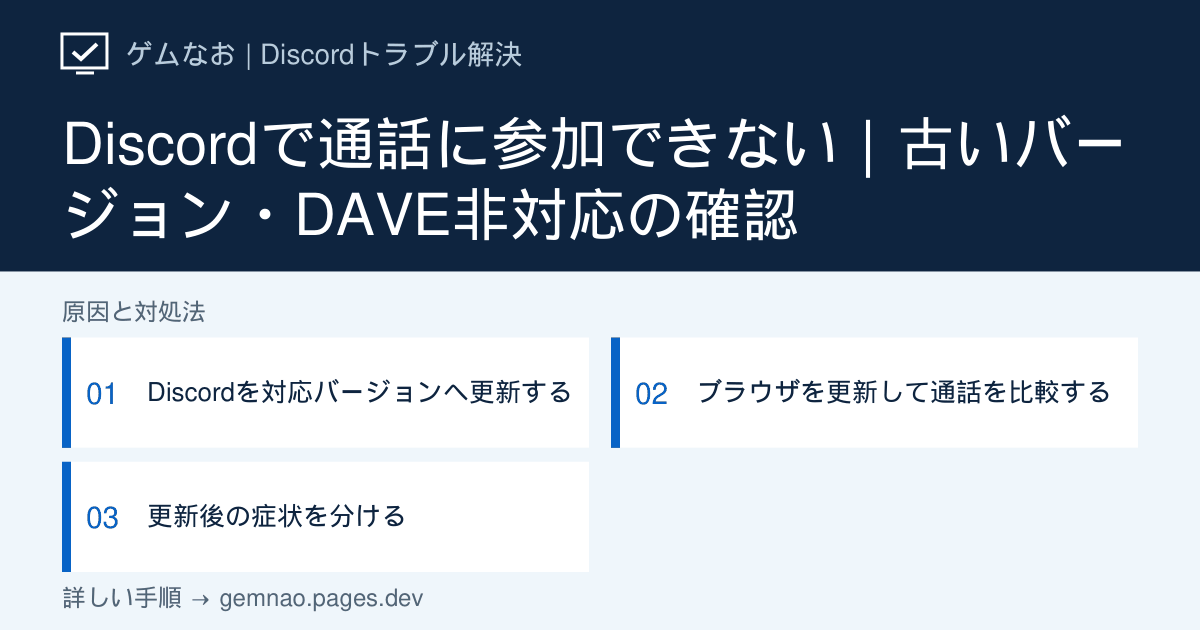
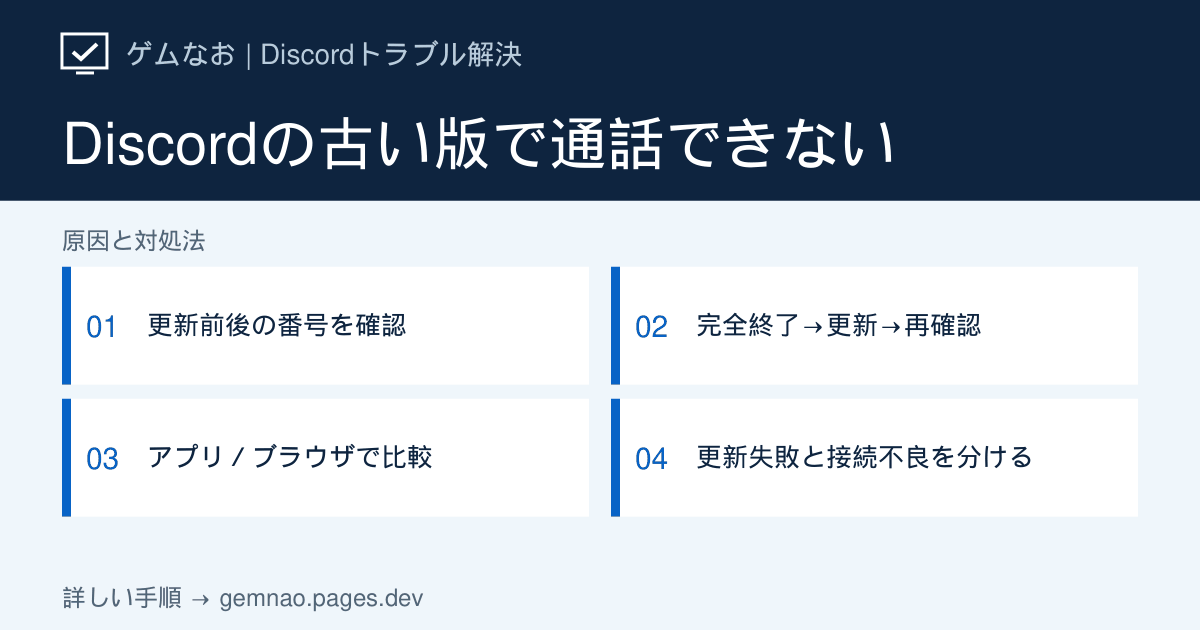
Rewrite outdated voice client guide with update verification and browser comparisons

diff --git a/lib/discord-compatibility-articles.ts b/lib/discord-compatibility-articles.ts
@@ -3,80 +3,98 @@ export const discordCompatibilityArticles: DiscordArticle[] = [
   {
     slug: 'voice-client-outdated',
     category: 'connection',
-    title: 'Discordで通話に参加できない｜古いバージョン・DAVE非対応の確認',
+    title: 'Discordの古いバージョンで通話できない｜更新できない時の対処',
     shortTitle: '古いバージョンで通話できない',
-    seoTitle: 'Discordで通話できない｜古いバージョン・DAVE対応を確認',
-    metaDescription:
-      'チャットは使えるのにDiscordの通話・Go Liveへ参加できない時、古いアプリやブラウザを確認。Windows版とFirefoxの対応条件、更新後も直らない場合の切り分けを説明します。',
-    symptom:
-      '文字チャットは使えるのに音声・ビデオ通話へ参加できない、古いアプリやブラウザを長く使っている人向けです。RTC接続中や無音の原因すべてがDAVEとは限りません。',
+    seoTitle: 'Discordの古いバージョンで通話できない｜更新確認・DAVE対応',
+    metaDescription: 'Discordの通話に必要な最低バージョンと更新前後の確認方法。更新できない・番号が変わらない時の手順、アプリとブラウザの結果別判断表、Update Failedなどの確認先を解説します。',
+    symptom: 'チャットは使えるのに通話へ参加できない、古いバージョンの警告が出る、更新しても同じ番号のままの場合の手順です。',
     target: 'Windows版Discord・PCブラウザ版／バージョン非対応が疑われる場合',
-    conclusion:
-      'Discord公式は2026年3月2日以降の通話に暗号化対応を必須と案内しています。まずアプリとブラウザを現行版へ更新し、同じ通話へ参加できるか確認してください。',
+    conclusion: 'Discordは2026年3月2日以降の通話に暗号化対応を必須としています。まず更新前のバージョンを控え、完全終了・更新後に同じ画面で再確認します。更新できなければ現行ブラウザで同じ通話を試し、アプリだけ失敗するのか、両方で接続できないのかで次の手順を選びます。',
     quickFixes: [
-      'Discordのユーザー設定の最下部でバージョンを確認する',
-      'アプリ・ブラウザを更新して再起動する',
-      '更新済みでも直らない場合はRTC接続や音声設定を切り分ける',
+      'ユーザー設定の最下部で、更新前のバージョン表示全体を記録する',
+      'Discordを完全終了して再起動し、更新後の版と通話結果を確認する',
+      '更新失敗ならブラウザ版を比較し、エラー表示に合う手順へ進む',
+    ],
+    showStatusCheck: false,
+    diagnosisTitle: 'アプリとブラウザの通話結果で選ぶ判断表',
+    diagnosisIntro: '同じPC・回線・アカウント・通話先で、片方から退出してからもう片方を試します。「チャットが開いた」ではなく「通話に参加できたか」で比較してください。',
+    diagnosis: [
+      { symptom: '古いバージョンの警告／Windows版が1.0.9164未満', check: '更新前の番号を記録して完全終了・更新', causeIndex: 1 },
+      { symptom: '再起動後も番号が変わらない', check: '最低条件、表示全体、起動したアプリを確認', causeIndex: 2 },
+      { symptom: 'Update Failed／更新ループ／Installation has failed', check: 'ブラウザで通話を確保し、表示別の記事へ', causeIndex: 2 },
+      { symptom: 'アプリは失敗、更新済みブラウザは通話できる', check: 'アプリの更新・起動先・導入状態を優先', causeIndex: 4 },
+      { symptom: 'アプリは通話できる、ブラウザだけ失敗', check: 'ブラウザの再起動・サイト権限・表示エラーを確認', causeIndex: 3 },
+      { symptom: '両方とも対応版だが通話に参加できない', check: '障害・RTC接続・No Route・チャンネル権限へ', causeIndex: 4 },
+      { symptom: '参加できたが無音／音楽Botだけ動かない', check: '入出力設定またはBot提供者の対応状況へ', causeIndex: 4 },
     ],
     causes: [
       {
-        title: 'Discordを対応バージョンへ更新する',
-        description:
-          '公式の最低条件はWindows版1.0.9164です。これは最新推奨版を意味しないため、利用可能な更新を適用してください。',
+        title: '更新前の版を記録し、完全終了して更新する',
+        description: '公式の最低条件はWindows版1.0.9164、Firefox 142です。Chrome・Edgeは86と案内されていますが、これらは通話の最低条件であり、今使うべき最新版ではありません。利用可能な更新を適用してください。',
         actions: [
-          '歯車からユーザー設定を開き、最下部のバージョン番号を控える',
-          'Discordを完全終了して起動し直し、更新が完了したことを確認する',
-          '更新後の番号を確認して、同じボイスチャンネルへ参加する',
+          'Discordの歯車アイコン→ユーザー設定を開き、設定パネルの最下部にあるバージョン表示全体を控える。複数の番号がある場合は一部分だけを書き写さず、画面も記録する。',
+          'Windows通知領域のDiscordアイコンを右クリックして終了する。必要ならCtrl＋Shift＋Escでタスクマネージャーを開き、Discordが残っていないか確認する。',
+          'スタートメニューから普段使っているDiscordを起動し、更新処理が終わってチャット画面になるまで待つ。Update Failedなどが出たら、その文言を記録してSTEP 2へ。',
+          '同じ設定画面を再び開き、更新後の版を記録する。同じ通話へ参加し、古い版の警告・接続結果・相互に声が聞こえるかを確認する。',
         ],
+        note: 'DAVEはDiscordの音声・映像を暗号化する仕組みです。暗号化を無効にして古い版を使い続ける手順ではなく、対応版での復旧を進めます。',
       },
       {
-        title: 'ブラウザを更新して通話を比較する',
-        description:
-          'Firefoxの公式最低条件は142です。古いブラウザでは文字チャットが使えても通話に参加できない場合があります。',
+        title: '番号が変わらない・更新できない時は、表示と起動先を確認する',
+        description: '同じ番号でも、既に利用可能な最新版なら更新失敗とは限りません。一方、最低条件未満や非対応の警告が続く場合は、更新済みと判断しないでください。',
         actions: [
-          'ブラウザのヘルプ・バージョン情報で更新を確認する',
-          '更新後にブラウザを再起動し、Discordへ再アクセスする',
-          '同じアカウント・同じチャンネルで、公式アプリとブラウザの結果を比較する',
+          '更新前後で同じアプリ・同じ設定欄を見ているか確認する。通常版のほかにPTB・Canaryが入っている場合は、アプリ名も記録し、更新したものと起動したものを取り違えていないか確認する。',
+          'タスクバーやデスクトップの古いショートカットではなく、スタートメニューで対象のDiscordを選び直す。同じ警告が出るか確認し、PC再起動後にも版を再確認する。',
+          'Update Failedや更新ループなら関連記事「Update Failed・更新ループ」へ。アプリ・ブラウザ・回線の比較から進め、最初からAppDataを削除しない。',
+          '更新処理が進まず新しいインストーラーが必要な場合は、Discord公式ダウンロードページからWindows版を取得する。再インストール前にログイン方法・二段階認証の利用手段と音声設定を確認する。',
+          'インストーラーで「Installation has failed」が出るなら同名の関連記事へ。OS非対応や管理者による制限が表示された場合は、その条件を確認し、対応端末または端末管理者への相談に切り替える。',
         ],
+        note: '更新できない間はSTEP 3の公式ブラウザ版で同じ通話を試せます。ただしブラウザもOSも対応が必要で、古いPCなら必ず回避できるわけではありません。',
       },
       {
-        title: '更新後の症状を分ける',
-        description:
-          '対応版でも直らない場合は、非対応バージョン以外の原因を確認します。ここは編集部の切り分け手順です。',
+        title: 'ブラウザ自体を更新・再起動して、同じ通話を試す',
+        description: 'Discordのページ再読み込みと、ブラウザ本体の更新は別です。ブラウザを再起動した後、公式の https://discord.com/app を開いて比較します。',
         actions: [
-          '接続が始まらないならRTC接続中・No Routeの関連記事を確認する',
-          '参加できて相手の声だけ聞こえないなら出力先と個別音量を確認する',
-          '一部の音声Botだけ使えないならBot提供者のDAVE対応状況を確認する',
+          'Chromeは右上の「︙」→「ヘルプ」→「Google Chromeについて」で更新状態と番号を確認し、求められたら再起動する。再起動後も同じ画面で確認する。',
+          'Firefoxはメニューの「ヘルプ」→「Firefoxについて」で更新を確認する。更新後の再起動を完了させ、142以上かと更新エラーの有無を確認する。',
+          'Edgeを使う場合も「ヘルプとフィードバック」→「Microsoft Edgeについて」で更新状態を確認し、必要な再起動を済ませる。',
+          'アプリ版の通話から退出し、ブラウザで同じアカウント・同じ通話先へ参加する。マイクの許可を求められたら、discord.comへの許可と使うマイクを確認する。',
+          '「参加できない」「参加できるが声が届かない」「相互に話せる」のどれかを記録する。ブラウザだけ無音なら、アドレスバー付近のサイト設定でマイク許可とDiscordの入出力設定を確認する。',
+        ],
+        note: '記録例：「アプリは古い版の警告、Chromeは相互通話OK」ならアプリ側を優先。「両方RTC接続中」なら接続経路の確認へ進みます。これは判断例であり、実機検証結果ではありません。',
+      },
+      {
+        title: '比較結果に合わせ、更新・接続・音声・Botを分けて対処する',
+        description: '対応版になった後も症状が残る場合、すべてをDAVEの問題として扱わず、どこまでできるかで確認先を変えます。',
+        actions: [
+          'ブラウザだけ通話できるなら、いったんブラウザを使い、STEP 2でアプリの更新・起動先・導入エラーを確認する。この結果だけで回線の影響を完全に否定しない。',
+          'アプリだけ通話できるなら、ブラウザの更新・再起動・サイトのマイク許可を確認する。ブラウザに古い版の警告が残る場合はOSの対応状況も調べる。',
+          '両方でRTC接続中やNo Routeになるなら、Discord Statusを確認し、該当する接続エラーの記事へ進む。特定チャンネルだけなら管理者へ「接続」「発言」権限を確認してもらう。',
+          '通話へ入れるが声が聞こえない場合は、マイク・スピーカーのミュートと「音声・ビデオ」の入出力先を確認する。相手の声だけ聞こえなければ関連記事の出力側の手順へ。',
+          '人同士は話せて音楽Botだけ失敗するなら、Bot提供者のDAVE対応・障害情報を確認する。利用者のアプリ再インストールを繰り返しても、Bot側の未対応は修正できない。',
         ],
       },
     ],
-    ifNotFixed:
-      'OS、Discordとブラウザの版、表示メッセージ、公式アプリとブラウザの比較結果を控えてDiscord公式サポートへ相談してください。DAVEを無効化する方法での回避は案内していません。',
+    ifNotFixed: 'Discordサポートへ「Windowsの版／更新前後のDiscord表示全体／通常版・PTBなどの種類／ブラウザ名と版／同じ通話の比較結果／警告全文と発生時刻」を送ってください。更新エラーなのか、更新後の通話エラーなのかを分けると状況を伝えやすくなります。',
     faqs: [
-      {
-        question: 'チャットが使えても通話だけできなくなりますか？',
-        answer:
-          '暗号化に非対応の版ではその可能性があります。ただしネットワークや音声設定にも原因があるため、更新後に症状を再確認します。',
-      },
-      {
-        question: '音楽Botだけ使えない場合もアプリの更新で直りますか？',
-        answer:
-          '音声接続するBot側にもDAVE対応が必要です。Bot提供者の公式告知を確認してください。',
-      },
+      { question: '番号が変わらないと更新失敗ですか？', answer: '必ずしもそうではありません。既に最新の場合や、見ている番号の種類が違う場合があります。同じアプリの同じ設定欄で表示全体を比べ、最低条件・更新エラー・通話結果を合わせて判断します。' },
+      { question: 'チャットが開けば対応版だと判断できますか？', answer: 'できません。文字チャットと音声・映像通話の条件は異なります。同じ通話に参加し、相互に声が届くところまで確認してください。' },
+      { question: '最低バージョンを入れれば十分ですか？', answer: '最低条件は通話対応の目安です。古い版を指定して入れ直すのではなく、その端末で利用可能な現行版へ更新してください。OSの互換性も確認対象です。' },
+      { question: 'アプリを更新できない間も通話できますか？', answer: '対応ブラウザとOSなら公式ブラウザ版を試せます。そこで通話できる場合は一時的に使い、アプリの更新問題を別に解決します。ブラウザでも失敗する場合は表示に合う接続・権限の確認へ進みます。' },
     ],
     sources: [
-      {
-        label: 'Discord公式：通話に必要な最低バージョン（2026-09-22確認）',
-        url: 'https://support.discord.com/hc/en-us/articles/38025123604631-Minimum-Client-Version-Requirements-for-Voice-Chat',
-      },
+      { label: 'Discord公式：通話に必要な最低バージョン', url: 'https://support.discord.com/hc/en-us/articles/38025123604631-Minimum-Client-Version-Requirements-for-Voice-Chat' },
+      { label: 'Discord公式：トラブルシューティングガイド', url: 'https://support.discord.com/hc/en-us/articles/31623498041623-Discord-Troubleshooting-Guide' },
+      { label: 'Discord公式：ダウンロード', url: 'https://discord.com/download' },
+      { label: 'Google公式：Google Chromeを更新する', url: 'https://support.google.com/chrome/answer/95414?hl=ja' },
+      { label: 'Mozilla公式：Firefoxを最新リリースに更新する', url: 'https://support.mozilla.org/ja/kb/update-firefox-latest-release' },
+      { label: 'Microsoft公式：Microsoft Edgeの更新設定', url: 'https://support.microsoft.com/en-us/topic/microsoft-edge-update-settings-af8aaca2-1b69-4870-94fe-18822dbb7ef1' },
+      { label: 'Discord Status（公式障害情報）', url: 'https://discordstatus.com/' },
     ],
-    related: [
-      'rtc-connecting',
-      'no-route',
-      'cant-hear-voice',
-      'bot-not-responding',
-    ],
-    checkedAt: '2026-09-22',
+    related: ['update-failed', 'installation-failed', 'rtc-connecting', 'no-route', 'cant-hear-voice', 'bot-not-responding'],
+    checkedAt: '2026-09-28',
     status: 'verified',
+    ogTitle: 'Discordの古い版で通話できない',
+    ogSteps: ['更新前後の番号を確認', '完全終了→更新→再確認', 'アプリ／ブラウザで比較', '更新失敗と接続不良を分ける'],
   },
 ];

diff --git a/lib/og-image-manifest.ts b/lib/og-image-manifest.ts
@@ -32,7 +32,7 @@ export const ogImageManifest: Record<string, string> = {
   "/discord/system-helper": "252bdb32",
   "/discord/update-failed": "713603d8",
   "/discord/user-volume-low": "31161b2c",
-  "/discord/voice-client-outdated": "9940ed57",
+  "/discord/voice-client-outdated": "553431b2",
   "/discord/voice-cutting-out": "e483fd4c",
   "/games/aniimo": "30fe6a2d",
   "/games/aniimo/black-screen": "d4ce40f0",
